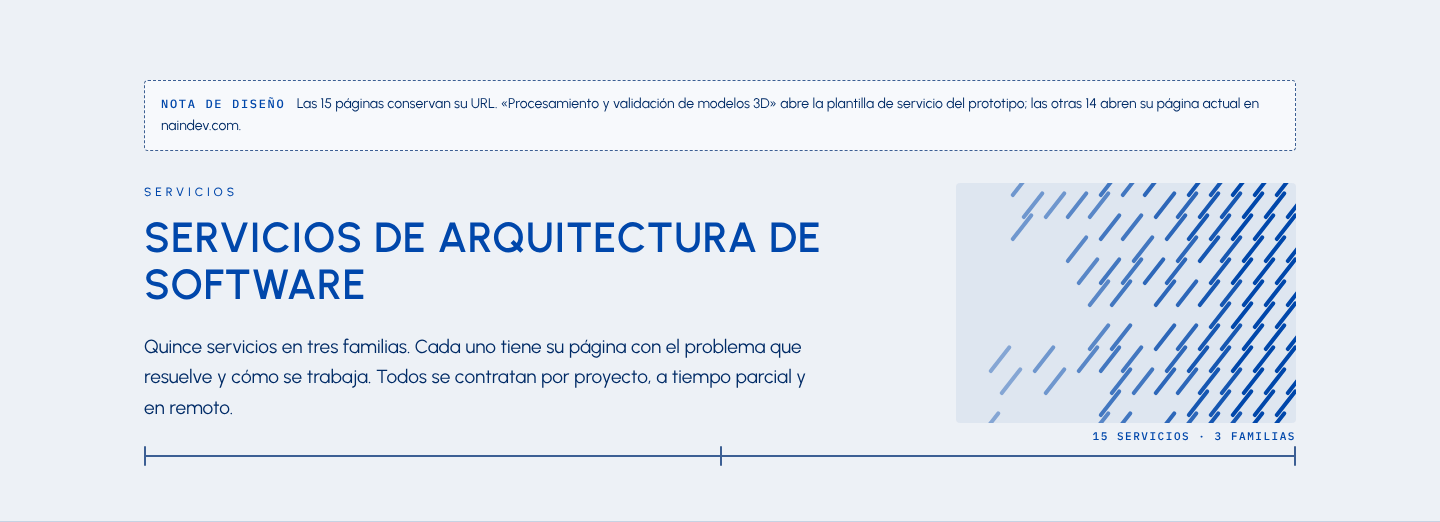
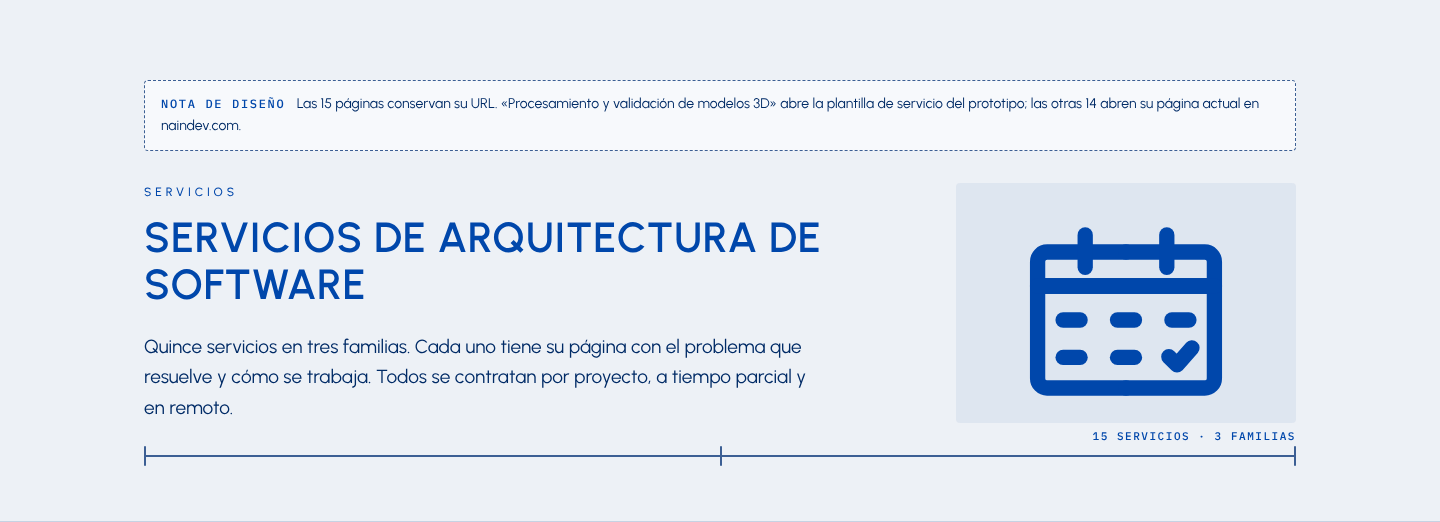
design(home): update README and exports for the agenda loop

Changed region(s): [[0.6875, 0.3372, 0.9062, 0.8276]]

diff --git a/design/home-redesign/README.md b/design/home-redesign/README.md
@@ -19,7 +19,7 @@ Designer: David (`davidesuarez`)
 | `brandbook-addendum.md` | Brandbook addendum v1.1: motion. A proposal for Aitor |
 | `assets/nain.js` | Language switch, mobile menu, hero field, console, project filters, privacy notice |
 | `assets/boot.js` | Runs before the first paint: turns construction motion on (unless reduced motion is asked) and preloads the fonts |
-| `assets/motion.js` | Section entrance, the pattern built from its seed, the diagram replay, the mark spring, the LAB buttons |
+| `assets/motion.js` | Section entrance, the pattern built from its seed, the diagram replay, the mark's fold on hover, the pause of the agenda loop off screen, the LAB buttons |
 | `assets/fix.js` + `assets/fix.data.js` | FIX mode, described below |
 | `assets/fonts/` | Urbanist and IBM Plex Mono, WOFF2, Latin subset, with their OFL licences |
 | `assets/trama.svg` | The static stroke pattern, shown where a pattern block has not been built yet |
@@ -264,7 +264,7 @@ page is in [`exports/`](exports/).
 | # | Where | What fails | Rule that fixes it | What was done |
 | :-- | :--- | :--- | :--- | :--- |
 | 1 | Home, sections 2 to 10, both widths | Eight of the nine content sections sit on the same paper, six of them in a row (projects, cases, writing, checklist, console, about). Chapters are only told apart by a thin rule, so the home reads as one long column | 03 Color, "Las superficies": one surface per section; sunken paper is the second paper | Paper and sunken paper alternate. Deep blue stays on method and contact |
-| 2 | Inner page heads at 1440: services, service, cases, writing, contact | The H1 and the lede fill the left 60 %. The right 40 % is empty paper and the head looks unfinished | 7.2 The pattern: a bounded block that stands where a photo would go, at least 240 × 160 px, one per view, never behind text | A pattern block in the right column of each head, with its own seed per page. It builds once (addendum) and has a measuring dimension under the head |
+| 2 | Inner page heads at 1440: services, service, cases, writing, contact | The H1 and the lede fill the left 60 %. The right 40 % is empty paper and the head looks unfinished | 7.9 The mark in motion, and the 7.5 quota of one living surface per page | A first fix put a pattern block there; David preferred the mark. The right column now carries the mark that becomes an agenda: the N folds into one stroke (the 7.9 gesture), the stroke becomes the header line of an agenda, the agenda draws itself and folds back into the N, every 8 s. It is the page's only living surface, stops off screen, and is a still agenda with reduced motion. A measuring dimension runs under the head |
 | 3 | Home, problem diagram at 390 | The desktop diagram is scaled down to the phone width. Box labels are about 6 px and overflow their boxes | 7.4 The diagram: drawn for its frame, labels in Plex Mono at label size; 05 stroke weights | A vertical version for narrow screens, laid out again so every label fits its box at 12 px |
 | 4 | Home hero at 390 | The kicker "Aitor Nain Mendoza Vallejo · Arquitecto de software full stack" wraps to three lines of tracked capitals | 04 Typography: brand register for the name, data label for everything else | The name stays in the brand register on its own line, and the role becomes a Plex Mono data label |
 | 5 | Home hero at 390 | "Agendar llamada gratuita" comes after the lede and the stack row, more than a screen down | 08 Applied system: the header and hero lead with the call to action | On narrow screens the actions come right after the H1, then the lede and the stack |
@@ -300,7 +300,8 @@ The rules are in [`brandbook-addendum.md`](brandbook-addendum.md). Three classes
 - **Construction.** It plays once when an element enters the screen and ends still. It lasts at
   most 1.2 s.
 - **Response.** It plays only while the visitor acts, and returns to rest on the 7.5 spring.
-- **Living surface.** This is the 7.5 quota: one per page, the hero field. `?vivo=0` turns it off.
+- **Living surface.** This is the 7.5 quota, one per page: the hero field on the home, and the mark
+  that becomes an agenda in the head of inner pages. Both stop off screen. `?vivo=0` turns them off.
 
 **Classes.** The markup carries the whole system. No JavaScript runs per frame for construction.
 
@@ -313,7 +314,8 @@ The rules are in [`brandbook-addendum.md`](brandbook-addendum.md). Three classes
 | `.brk` | The interruption that opens (7.1) |
 | `.trama-blk data-seed data-ink data-dir` | The pattern that builds. `motion.js` draws it from its seed into an SVG, about 900 ms by density, and then it stays static |
 | `figure[data-replay]` | The diagram that runs. The pulse stops at the gap and the label appears. It plays again on hover and focus |
-| `#brandMark` | The mark builds once per browser session (600 ms). On hover it contracts and springs back (7.5) |
+| `#brandMark` | The mark builds once per browser session (600 ms). On hover the N folds into one stroke and opens again (7.9, as in round 2) |
+| `.ph-agd` | The mark that becomes an agenda, in the head of inner pages. CSS keyframes, 8 s loop; `motion.js` only adds `.on` while it is on screen. At rest, with reduced motion or `?vivo=0`, it is a still agenda |
 
 Every piece uses `cubic-bezier(.22,1,.36,1)` and animates only `transform`, `opacity`, `clip-path`
 and SVG stroke offsets. All motion CSS hangs from `html.mo`, which `assets/boot.js` sets before the
@@ -336,8 +338,8 @@ The page generator does steps 2 and 3 on its own.
 | :--- | :--- |
 | No animation frames when nothing moves | 0 animation frames in the 3 s after 3 s at rest, on all 9 pages, with the hero off screen. With reduced motion, 0 frames and 0 running animations |
 | Hero canvas | DPR capped at 2, and 1 under 760 px wide (on a phone the field only shows around the opaque card; this halves the raster cost of each frame). Stops off screen and with the tab hidden. 20 fps while it only breathes. No `shadowBlur` |
-| New JavaScript under 12 KB gz | 3.74 KB gz: `boot.js` 711 B + `motion.js` 3121 B |
-| No long task over 50 ms while loading or scrolling (390 px, 4× CPU, measured with CDP) | After the first paint: 0 long tasks while loading and 0 while scrolling, on all 9 pages. **Not met before the first paint:** the one task that parses the HTML and lays out the page takes up to 93 ms (6 of 9 pages are over 50 ms). Nothing is on screen yet, so it delays the first paint rather than blocking an interaction. It went down from 160–257 ms in round 3's first build, and the check reports it apart. Getting it under 50 ms means a smaller first screen of HTML (for example, the 19 project cards rendered on demand) |
+| New JavaScript under 12 KB gz | 4.19 KB gz: `boot.js` 711 B + `motion.js` 3581 B |
+| No long task over 50 ms while loading or scrolling (390 px, 4× CPU, measured with CDP) | After the first paint: 0 long tasks while loading and 0 while scrolling, on all 9 pages. **Not met before the first paint:** the one task that parses the HTML and lays out the page takes up to 97 ms (7 of 9 pages are over 50 ms). Nothing is on screen yet, so it delays the first paint rather than blocking an interaction. It went down from 160–257 ms in round 3's first build, and the check reports it apart. Getting it under 50 ms means a smaller first screen of HTML (for example, the 19 project cards rendered on demand) |
 | Grids | Every `fr` track is `minmax(0,1fr)`, and grid children have `min-width:0` |
 | Touch | `touch-action: pan-y` on the hero, so the field never traps the scroll |
 | iOS 15 | ES5 in `boot.js` and `motion.js`. No import maps, no modules, no APIs newer than Safari 15 |
@@ -449,29 +451,30 @@ PASS  10. Reduced motion: final state, no animation frames
         9 pages: no motion class, 0 animation frames, 0 running animations, every section built
 PASS  11. Motion budget: idle loop, long tasks, JavaScript weight
         assets/boot.js 711 B gz
-        assets/motion.js 3121 B gz
-        new JavaScript this round: 3.74 KB gz (budget 12 KB)
+        assets/motion.js 3581 B gz
+        new JavaScript this round: 4.19 KB gz (budget 12 KB)
         fr tracks in the stylesheet without minmax(0,…) before overrides: 27
+        agenda loop in the page heads: running on screen, paused off screen, still with ?vivo=0
         9 pages: 0 animation frames in the 3 s after 3 s at rest with the hero off screen; every section built after scrolling
         390 px, DPR 2, 4× CPU via CDP, scroll at 3000 px/s. Longest task in ms — first render (parse and first layout, before first paint) / after first paint / scrolling:
-          articulo.html                   83 /   0 /   0
-          casos.html                      79 /   0 /   0
+          articulo.html                   90 /   0 /   0
+          casos.html                      61 /   0 /   0
           contacto.html                    0 /   0 /   0
-          escritos.html                    0 /   0 /   0
-          index.html                      93 /   0 /   0
-          lab.html                        81 /   0 /   0
-          servicio-validacion-3d.html      0 /   0 /  50
-          servicios.html                  92 /   0 /   0
-          tecnologia.html                 60 /   0 /   0
+          escritos.html                   52 /   0 /   0
+          index.html                      97 /   0 /   0
+          lab.html                        52 /   0 /   0
+          servicio-validacion-3d.html     68 /   0 /   0
+          servicios.html                   0 /   0 /   0
+          tecnologia.html                 70 /   0 /   0
         hero canvas: backing ratio 1.00 on a DPR 3 phone, touch-action pan-y, stops with the tab hidden; no shadowBlur in the code: true
 PASS  12. Secret scan of the files to upload
-        321 files in the upload set, 21 text files scanned by pattern
+        293 files in the upload set, 21 text files scanned by pattern
         gitleaks: no leaks found
-        commits ahead of the remote: 1
+        commits ahead of the remote: 0
 PASS  13. Exports
         240 section captures in exports/ (390 and 1440 px, ES and EN), 8.5 MB, quantised to 256 colours
 
-PASS: 13 of 13 checks · 334 s
+PASS: 13 of 13 checks · 335 s
 ```
 
 Not in the script, run by hand this round: **axe-core 4.11.0, WCAG 2.2 AA, 0 violations in 36 runs**
@@ -715,7 +718,8 @@ No icon library, no image bank, no CDN, no third-party script.
 12. **Brandbook addendum v1.1 (motion).** Do you approve [`brandbook-addendum.md`](brandbook-addendum.md)?
     It adds two kinds of motion that end still (construction and response) and keeps the one-living-
     surface quota. It also amends three texts: 7.2 (the pattern may build once), 7.5 ("the only living
-    surface") and 7.9 (the mark's hover uses the 7.5 contraction).
+    surface", one per page) and 7.9 (the fold also drives the loop in the head of inner pages, where
+    the mark becomes an agenda; the hover gesture does not change).
 
 ## Design checklist before asking for review
 
